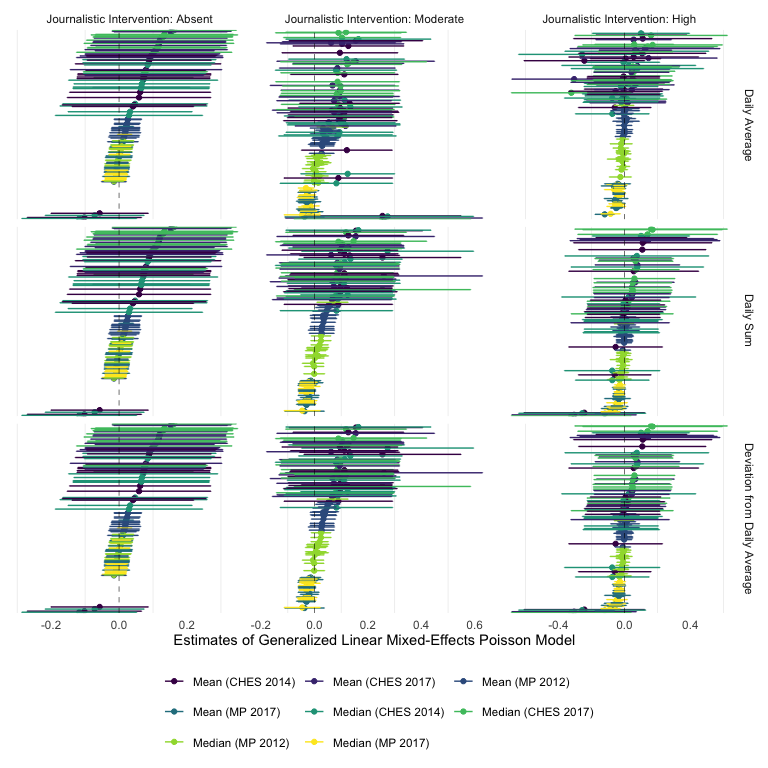
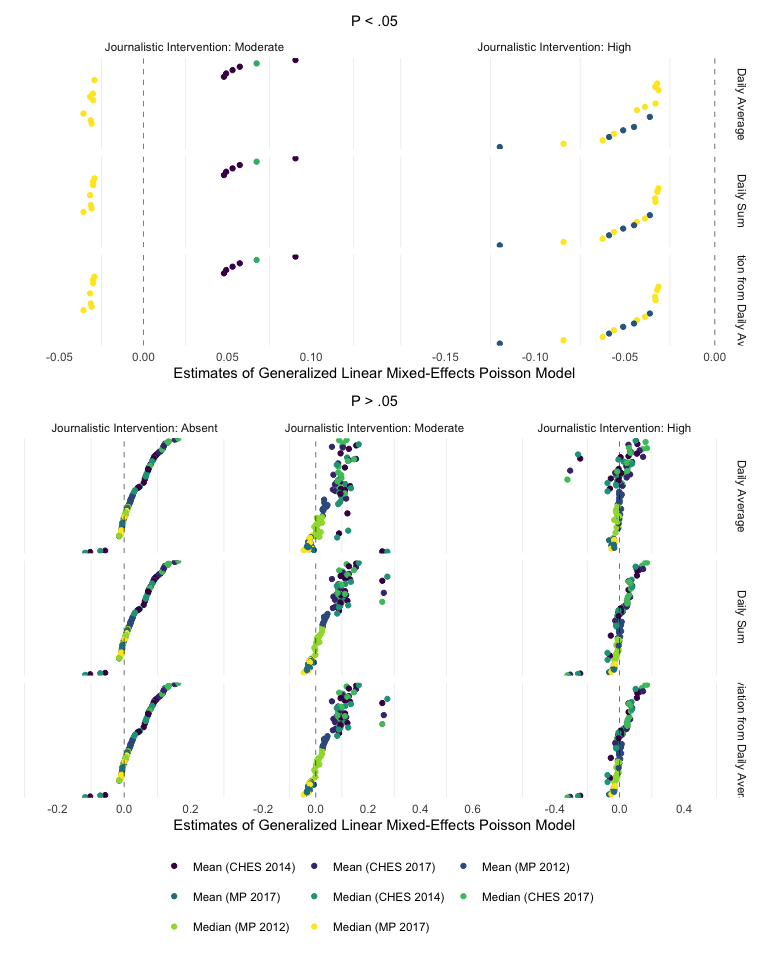
change in figures'

diff --git a/src/analysis/analysis.md b/src/analysis/analysis.md
@@ -63,14 +63,15 @@ h1 %>%
          x = recode(x, 
                     `ji1` = "Daily Average",
                     `ji2` = "Daily Sum",
-                    `ji3` = "Deviation from Daily Average")) %>%
+                    `ji3` = "Deviation from Daily Average"),
+         p = if_else(p.value < 0.05, "p<.05", "p>.05")) %>%
   ggplot(aes(x = reorder(id, estimate),
              y = estimate,
              group = id,
              colour = x,
              ymin = conf.low,
              ymax = conf.high)) +
-  geom_point() + geom_errorbar() +
+  geom_point() + #geom_errorbar() +
   theme_minimal() +
   labs(x = "", y = "Estimates of Generalized Linear Mixed-Effects Poisson Model") +
   #title = "Effect of Journalistic Intervention on # Negative Appeals",
@@ -94,18 +95,45 @@ h1 %>%
 
 ``` r
 source(here("src/analysis/mv-h2.R"))
-h2 %>%  
+p2_1 <- h2 %>%  
+  filter(p.value<.05) %>%
   ggplot(aes(y = reorder(id2, estimate),
              x = estimate,
              group = subsets,
              colour = x,
              xmin = conf.low,
              xmax = conf.high)) +
-  geom_point() + geom_errorbar() +
+  geom_point() + #geom_errorbar() +
   facet_grid(id~subsets, scales = "free") +
-  labs(y = "", x = "Estimates of Generalized Linear Mixed-Effects Poisson Model") +
+  labs(y = "", x = "Estimates of Generalized Linear Mixed-Effects Poisson Model", 
 #       title = "Effect of Standing in the Polls on # Negative Appeals",
-#      subtitle = "Controlled for Ideological Extremity and Issue Ownership" ) +
+      subtitle = "P < .05" ) +
+  theme_minimal() +
+  theme(plot.title = element_text(hjust = 0.5),
+        plot.subtitle = element_text(hjust = 0.5),
+        axis.title.y=element_blank(),
+        axis.text.y=element_blank(),
+        axis.ticks = element_blank(),
+        panel.grid.major = element_blank(),
+        legend.position="none",
+        legend.title = element_blank()) +
+  scale_color_viridis_d() +
+  geom_vline(xintercept = 0, size = .2, linetype = "dashed") +
+  guides(color=guide_legend(nrow=3,byrow=TRUE))
+
+p2_2 <- h2 %>%  
+  filter(p.value>.05) %>%
+  ggplot(aes(y = reorder(id2, estimate),
+             x = estimate,
+             group = subsets,
+             colour = x,
+             xmin = conf.low,
+             xmax = conf.high)) +
+  geom_point() + #geom_errorbar() +
+  facet_grid(id~subsets, scales = "free") +
+  labs(y = "", x = "Estimates of Generalized Linear Mixed-Effects Poisson Model", 
+#       title = "Effect of Standing in the Polls on # Negative Appeals",
+      subtitle = "P > .05" ) +
   theme_minimal() +
   theme(plot.title = element_text(hjust = 0.5),
         plot.subtitle = element_text(hjust = 0.5),
@@ -118,6 +146,8 @@ h2 %>%
   scale_color_viridis_d() +
   geom_vline(xintercept = 0, size = .2, linetype = "dashed") +
   guides(color=guide_legend(nrow=3,byrow=TRUE))
+
+p2_1 / p2_2 + plot_layout(height = c(1, 1.25))
 ```
 
 <img src="../../report/figures/h2-1.png" style="display: block; margin: auto;" />
@@ -126,18 +156,45 @@ h2 %>%
 
 ``` r
 source(here("src/analysis/mv-h3.R"))
-h3 %>%  
+p3_1 <- h3 %>% 
+  filter(p.value < .05) %>%
   ggplot(aes(y = reorder(id2, estimate),
              x = estimate,
              group = subsets,
              colour = x,
              xmin = conf.low,
              xmax = conf.high)) +
-  geom_point() + geom_errorbar() +
+  geom_point() + #geom_errorbar() +
   facet_grid(id~subsets, scales = "free") +
-  labs(y = "", x = "Estimates of Generalized Linear Mixed-Effects Poisson Model" ) + 
+  labs(y = "", x = "Estimates of Generalized Linear Mixed-Effects Poisson Model",
     #       title = "Effect of Ideologically Extremity on # Negative Appeals",
-  #       subtitle = "Controlled for Standing in the Polls and Issue Ownership" ) +
+        subtitle = "P < .05" ) +
+  theme_minimal() +
+  theme(plot.title = element_text(hjust = 0.5),
+        plot.subtitle = element_text(hjust = 0.5),
+        axis.title.y=element_blank(),
+        axis.text.y=element_blank(),
+        axis.ticks = element_blank(),
+        panel.grid.major = element_blank(),
+        legend.position="none",
+        legend.title = element_blank()) +
+  scale_color_viridis_d() +
+  geom_vline(xintercept = 0, size = .2, linetype = "dashed") +
+  guides(color=guide_legend(nrow=3,byrow=TRUE))
+
+p3_2 <- h3 %>% 
+  filter(p.value > .05) %>%
+  ggplot(aes(y = reorder(id2, estimate),
+             x = estimate,
+             group = subsets,
+             colour = x,
+             xmin = conf.low,
+             xmax = conf.high)) +
+  geom_point() + #geom_errorbar() +
+  facet_grid(id~subsets, scales = "free") +
+  labs(y = "", x = "Estimates of Generalized Linear Mixed-Effects Poisson Model",
+    #       title = "Effect of Ideologically Extremity on # Negative Appeals",
+        subtitle = "P > .05" ) +
   theme_minimal() +
   theme(plot.title = element_text(hjust = 0.5),
         plot.subtitle = element_text(hjust = 0.5),
@@ -150,6 +207,8 @@ h3 %>%
   scale_color_viridis_d() +
   geom_vline(xintercept = 0, size = .2, linetype = "dashed") +
   guides(color=guide_legend(nrow=3,byrow=TRUE))
+
+p3_1 / p3_2 + plot_layout(height = c(1, 1.25))
 ```
 
 <img src="../../report/figures/h3-1.png" style="display: block; margin: auto;" />
@@ -158,19 +217,46 @@ h3 %>%
 
 ``` r
 source(here("src/analysis/mv-h4.R"))
-h4 %>%  
+p4_1 <- h4 %>%  
+  filter(p.value < .05) %>%
   ggplot(aes(y = reorder(id2, estimate),
              x = estimate,
              group = subsets,
              colour = x,
              xmin = conf.low,
              xmax = conf.high)) +
-  geom_point() + geom_errorbar() +
+  geom_point() + 
   facet_grid(id~subsets, scales = "free") +
-  labs(y = "", x = "Estimates of Generalized Linear Mixed-Effects Poisson Model") +
+  labs(y = "", 
+       x = "Estimates of Generalized Linear Mixed-Effects Poisson Model",
+       subtitle = "P < .05") +
   theme_minimal() +
-  #       title = "Effect of Issue Ownership  on # Negative Appeals",
-  #       subtitle = "Controlled for Standing in the Polls and Issue Ownership" ) +
+  theme(plot.title = element_text(hjust = 0.5),
+        plot.subtitle = element_text(hjust = 0.5),
+        axis.title.y=element_blank(),
+        axis.text.y=element_blank(),
+        axis.ticks = element_blank(),
+        panel.grid.major = element_blank(),
+        legend.position="none",
+        legend.title = element_blank()) +
+  scale_color_viridis_d() +
+  geom_vline(xintercept = 0, size = .2, linetype = "dashed") +
+  guides(color=guide_legend(nrow=3,byrow=TRUE))
+
+p4_2 <- h4 %>%  
+  filter(p.value > .05) %>%
+  ggplot(aes(y = reorder(id2, estimate),
+             x = estimate,
+             group = subsets,
+             colour = x,
+             xmin = conf.low,
+             xmax = conf.high)) +
+  geom_point() + 
+  facet_grid(id~subsets, scales = "free") +
+  labs(y = "", 
+       x = "Estimates of Generalized Linear Mixed-Effects Poisson Model",
+       subtitle = "P > .05") +
+  theme_minimal() +
   theme(plot.title = element_text(hjust = 0.5),
         plot.subtitle = element_text(hjust = 0.5),
         axis.title.y=element_blank(),
@@ -181,7 +267,9 @@ h4 %>%
         legend.title = element_blank()) +
   scale_color_viridis_d() +
   geom_vline(xintercept = 0, size = .2, linetype = "dashed") +
-  guides(color=guide_legend(nrow=2,byrow=TRUE))
+  guides(color=guide_legend(nrow=3,byrow=TRUE))
+
+p4_1 / p4_2 + plot_layout(height = c(1, 1.25))
 ```
 
 <img src="../../report/figures/h4-1.png" style="display: block; margin: auto;" />
